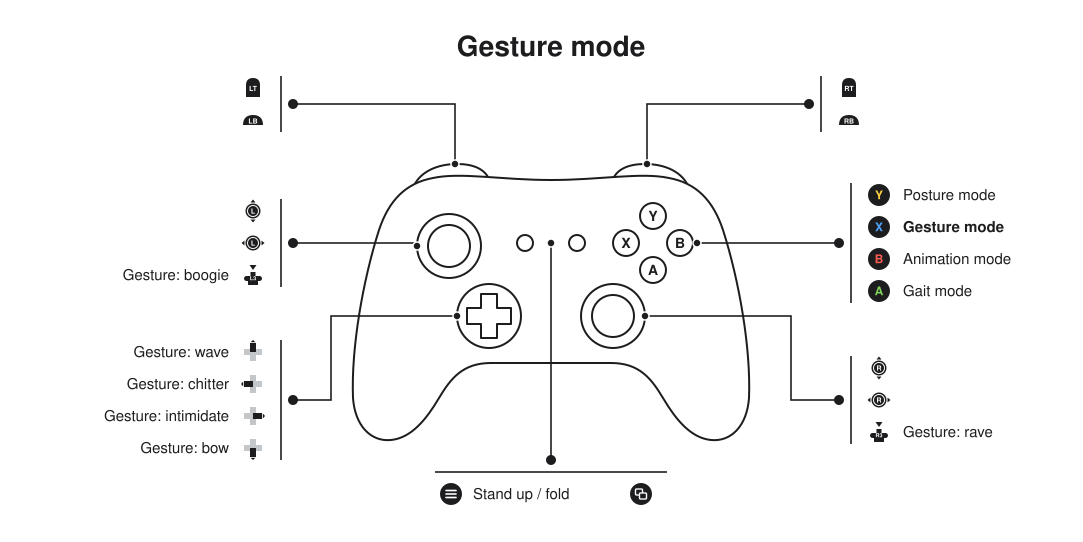
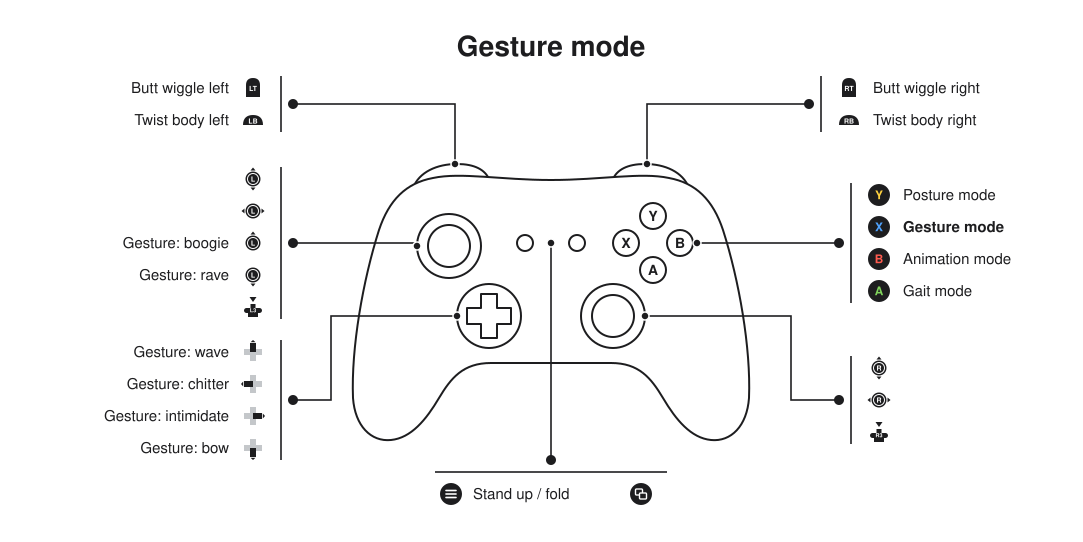
chore: adjust gesture gamepad controls

diff --git a/src/hexa_teleop/hexa_teleop/joy_mapping.py b/src/hexa_teleop/hexa_teleop/joy_mapping.py
@@ -76,6 +76,19 @@ DPAD_DIRECTIONS: dict[str, tuple[str, int]] = {
     "dpad_right": ("dpad_x", +1),
 }
 
+# Virtual stick direction keys, read like the D-pad. Gesture keys only: the
+# function sections bind the stick itself as an axis.
+STICK_DIRECTIONS: dict[str, tuple[str, int]] = {
+    "left_stick_up": ("left_stick_y", +1),
+    "left_stick_down": ("left_stick_y", -1),
+    "left_stick_left": ("left_stick_x", +1),
+    "left_stick_right": ("left_stick_x", -1),
+    "right_stick_up": ("right_stick_y", +1),
+    "right_stick_down": ("right_stick_y", -1),
+    "right_stick_left": ("right_stick_x", +1),
+    "right_stick_right": ("right_stick_x", -1),
+}
+
 
 @dataclass(frozen=True)
 class BaseConfig:
@@ -164,10 +177,10 @@ class JoyConfig:
     # through. Entry into ANIMATION snaps to index 0; subsequent
     # ``animation_prev`` / ``animation_next`` presses step the index.
     animation_list: tuple[str, ...]
-    # GESTURE-mode bindings: physical key -> gesture id from gestures.yaml.
-    # Not functions, so the section has no ``ModeConfig``; base bindings stay
-    # live in the mode.
+    # GESTURE-mode keys: physical key -> gesture id from gestures.yaml. Base
+    # bindings and ``gesture``'s function bindings stay live in the mode.
     gesture_bindings: Mapping[str, str] = field(default_factory=dict)
+    gesture: ModeConfig = field(default_factory=ModeConfig)
 
 
 @dataclass
@@ -376,9 +389,6 @@ def fit_drive_to_envelope(
     return drive_x * scale, drive_y * scale, drive_yaw * scale
 
 
-_NO_BINDINGS = ModeConfig()
-
-
 def _mode_cfg(cfg: JoyConfig, mode: str) -> ModeConfig | PostureConfig:
     if mode == GAIT:
         return cfg.gait
@@ -387,7 +397,7 @@ def _mode_cfg(cfg: JoyConfig, mode: str) -> ModeConfig | PostureConfig:
     if mode == ANIMATION:
         return cfg.animation
     if mode == GESTURE:
-        return _NO_BINDINGS
+        return cfg.gesture
     # Fallback to gait — should not happen since the loader validates
     # ``initial_mode`` and the mapping only ever assigns to known
     # constants.
@@ -427,18 +437,17 @@ def _read_axis_idx(axes: Sequence[float], idx: int) -> float:
     return float(axes[idx])
 
 
-def _dpad_pressed(
+def _direction_pressed(
     virtual_key: str,
     base: BaseConfig,
     axes: Sequence[float],
 ) -> bool:
-    """Return True if the D-pad direction ``virtual_key`` is held.
+    """Return True if the D-pad or stick direction ``virtual_key`` is held.
 
-    Reads the bound ``dpad_x`` / ``dpad_y`` axis from ``base.axes``,
-    applies its sign, and thresholds at ±0.5 so a bouncy axis can't
-    double-count.
+    Reads the bound axis from ``base.axes``, applies its sign, and
+    thresholds at ±0.5 so a bouncy axis can't double-count.
     """
-    axis_name, side = DPAD_DIRECTIONS[virtual_key]
+    axis_name, side = (DPAD_DIRECTIONS | STICK_DIRECTIONS)[virtual_key]
     if axis_name not in base.axis_index:
         return False
     sign = base.axis_sign.get(axis_name, 1.0)
@@ -482,8 +491,8 @@ def _key_pressed(
 ) -> bool:
     if key in base.button_index:
         return _read_button_idx(buttons, base.button_index[key])
-    if key in DPAD_DIRECTIONS:
-        return _dpad_pressed(key, base, axes)
+    if key in DPAD_DIRECTIONS or key in STICK_DIRECTIONS:
+        return _direction_pressed(key, base, axes)
     if key in base.axis_index:
         idx = base.axis_index[key]
         if idx < 0 or idx >= len(axes):
@@ -634,30 +643,42 @@ def validate_gesture_bindings(
     bindings: Mapping[str, str],
     base: BaseConfig,
     gesture_ids: Collection[str],
+    functions: Mapping[str, str] | None = None,
 ) -> None:
-    """Validate the ``gesture`` section: physical key -> gesture id.
+    """Validate ``gesture.gestures``: physical key -> gesture id.
 
-    Keys must be buttons, D-pad directions or the analog triggers, and none
-    may also carry a base binding, which stays live in GESTURE mode. Every
+    Keys must be buttons, D-pad or stick directions or the analog triggers,
+    and none may also carry a base binding or one of ``functions`` (the
+    section's own ``bindings``), which stay live in GESTURE mode. Every
     value must be a gesture id from ``gestures.yaml``. Raises ``ValueError``.
     """
-    pressable = set(base.button_index) | set(DPAD_DIRECTIONS) | (
-        {"l2", "r2"} & set(base.axis_index)
+    pressable = (
+        set(base.button_index)
+        | set(DPAD_DIRECTIONS)
+        | {
+            k for k, (axis, _) in STICK_DIRECTIONS.items()
+            if axis in base.axis_index
+        }
+        | ({"l2", "r2"} & set(base.axis_index))
     )
     for key, gesture in bindings.items():
         if key not in pressable:
             raise ValueError(
-                f"gesture.bindings: {key!r} is not a button, D-pad direction "
-                f"or trigger"
+                f"gesture.gestures: {key!r} is not a button, D-pad or stick "
+                f"direction, or trigger"
             )
-        if base.bindings.get(key):
-            raise ValueError(
-                f"gesture.bindings.{key}: key already bound in base to "
-                f"{base.bindings[key]!r}"
-            )
+        for section, bound in (
+            ("base", base.bindings),
+            ("gesture", functions or {}),
+        ):
+            if bound.get(key):
+                raise ValueError(
+                    f"gesture.gestures.{key}: key already bound in "
+                    f"{section} to {bound[key]!r}"
+                )
         if gesture not in gesture_ids:
             raise ValueError(
-                f"gesture.bindings.{key}: unknown gesture {gesture!r} "
+                f"gesture.gestures.{key}: unknown gesture {gesture!r} "
                 f"(known: {sorted(gesture_ids)})"
             )
 
@@ -1051,8 +1072,8 @@ def map_functions(
     # ``yaw_current``, which the gait/animation return below adds to the
     # pose it publishes, so the body can be held turned while walking.
     # Bindings still resolve against the active mode's config, so a mode
-    # that leaves them unbound has no yaw. Wiggle is live in GAIT and
-    # POSTURE the same way — its translation rides ``wiggle_amount`` and
+    # that leaves them unbound has no yaw. Wiggle is live in GAIT,
+    # POSTURE and GESTURE the same way — its translation rides ``wiggle_amount`` and
     # both returns add it — but not in ANIMATION, where the animation is
     # driving the body and an offset held underneath it fights it.
     wiggle_live = state.mode != ANIMATION

diff --git a/src/hexa_teleop/test/test_joy_mapping.py b/src/hexa_teleop/test/test_joy_mapping.py
@@ -2156,7 +2156,13 @@ def _gesture_cfg():
 
     return dataclasses.replace(
         _cfg(base_bindings={"x": "gesture_mode"}),
-        gesture_bindings={"dpad_up": "wave", "dpad_down": "bow"},
+        gesture_bindings={
+            "dpad_up": "wave",
+            "dpad_down": "bow",
+            "left_stick_up": "boogie",
+            "left_stick_down": "rave",
+        },
+        gesture=ModeConfig(bindings={"l1": "yaw_left", "l2": "wiggle_left"}),
     )
 
 
@@ -2181,6 +2187,32 @@ def test_gesture_fires_once_per_press_in_gesture_mode():
     # D-pad is not height in gesture mode, and the sticks drive nothing.
     assert first.pose_z == 0.0
     assert first.linear_x == 0.0
+
+
+def test_stick_direction_fires_gesture_in_gesture_mode():
+    cfg = _gesture_cfg()
+    state = JoyState(mode=GESTURE)
+    rest = map_joy(_axes(left_y=0.4), _buttons(), cfg, state, DT)
+    up = map_joy(_axes(left_y=1.0), _buttons(), cfg, state, DT)
+    map_joy(_axes(), _buttons(), cfg, state, DT)
+    down = map_joy(_axes(left_y=-1.0), _buttons(), cfg, state, DT)
+    assert rest.gesture is None
+    assert up.gesture == "boogie"
+    assert down.gesture == "rave"
+    assert up.linear_x == 0.0
+
+
+def test_yaw_and_wiggle_live_in_gesture_mode():
+    cfg = _gesture_cfg()
+    state = JoyState(mode=GESTURE)
+    for _ in range(400):
+        yaw = map_joy(_axes(), _buttons(yaw_left=True), cfg, state, DT)
+    assert math.isclose(yaw.pose_yaw, cfg.posture.yaw_max, rel_tol=1e-6)
+    state = JoyState(mode=GESTURE)
+    for _ in range(400):
+        wiggle = map_joy(_press_lt(), _buttons(), cfg, state, DT)
+    assert math.isclose(wiggle.pose_yaw, cfg.posture.yaw_max, rel_tol=1e-6)
+    assert wiggle.pose_y < 0.0
 
 
 def test_gesture_keys_inert_outside_gesture_mode():
@@ -2214,6 +2246,11 @@ def test_gesture_bindings_validated():
         validate_gesture_bindings({"a": "wave"}, base, ("wave",))
     with pytest.raises(ValueError, match="not a button"):
         validate_gesture_bindings({"left_stick_x": "wave"}, base, ("wave",))
+    validate_gesture_bindings({"left_stick_up": "wave"}, base, ("wave",))
+    with pytest.raises(ValueError, match="already bound in gesture"):
+        validate_gesture_bindings(
+            {"l1": "wave"}, base, ("wave",), {"l1": "yaw_left"}
+        )
 
 
 def test_shipped_gesture_bindings_are_valid():
@@ -2233,5 +2270,8 @@ def test_shipped_gesture_bindings_are_valid():
         bindings=raw["base"]["bindings"],
     )
     validate_gesture_bindings(
-        raw["gesture"]["bindings"], base, load_gesture_ids(gestures)
+        raw["gesture"]["gestures"],
+        base,
+        load_gesture_ids(gestures),
+        raw["gesture"]["bindings"],
     )

diff --git a/scripts/generate_controller.py b/scripts/generate_controller.py
@@ -68,7 +68,8 @@ GROUPS = [
     dict(anchor="left_shoulder", side="left", bx=470, cy=72, mx=None,
          rows=[("l2", "lt"), ("l1", "lb")]),
     dict(anchor="left_stick", side="left", bx=470, cy=211, mx=None,
-         rows=[("left_stick_y", "ls_y"), ("left_stick_x", "ls_x"), ("l3", "l3")]),
+         rows=[("left_stick_y", "ls_y"), ("left_stick_x", "ls_x"),
+               ("left_stick_up", "ls_up"), ("left_stick_down", "ls_down"), ("l3", "l3")]),
     dict(anchor="dpad", side="left", bx=470, cy=368, mx=520,
          rows=[("dpad_up", "dpad_up"), ("dpad_left", "dpad_left"),
                ("dpad_right", "dpad_right"), ("dpad_down", "dpad_down")]),
@@ -118,11 +119,10 @@ def body_anchors(path: Path) -> dict[str, tuple[float, float]]:
 def bindings_for(cfg: dict, mode: str) -> dict[str, str]:
     """Key -> label for one mode: base bindings under the mode's section."""
     keys = dict(cfg["base"]["bindings"])
-    section = cfg.get(mode, {}).get("bindings", {}) or {}
+    keys.update(cfg.get(mode, {}).get("bindings", {}) or {})
     if mode == "gesture":
-        keys.update({k: f"gesture:{v}" for k, v in section.items()})
-    else:
-        keys.update(section)
+        gestures = cfg["gesture"].get("gestures", {}) or {}
+        keys.update({k: f"gesture:{v}" for k, v in gestures.items()})
     labels = {}
     for key, fn in keys.items():
         if not fn:
@@ -261,8 +261,9 @@ def main() -> None:
 
     cfg = yaml.safe_load(args.config.read_text())
     known = {k for g in GROUPS for k, _ in g["rows"]}
-    for section in ("base", *MODES):
-        for key in (cfg.get(section, {}).get("bindings") or {}):
+    for section, table in [("base", "bindings"), *((m, "bindings") for m in MODES),
+                           ("gesture", "gestures")]:
+        for key in (cfg.get(section, {}).get(table) or {}):
             if key not in known:
                 sys.exit(f"generate_controller: [{section}] key '{key}' has no place on the diagram")
 

diff --git a/src/hexa_teleop/hexa_teleop/teleop_joy.py b/src/hexa_teleop/hexa_teleop/teleop_joy.py
@@ -163,16 +163,21 @@ def _load_config(
     animation_bindings = _parse_mode_bindings(
         "animation", raw["animation"], base
     )
+    gesture_functions = _parse_mode_bindings("gesture", raw["gesture"], base)
     cross_section_function_check({
         "gait": gait_bindings,
         "posture": posture_bindings,
         "animation": animation_bindings,
+        "gesture": gesture_functions,
     })
     gesture_bindings = {
-        str(k): str(v) for k, v in raw["gesture"]["bindings"].items()
+        str(k): str(v) for k, v in raw["gesture"]["gestures"].items()
     }
     validate_gesture_bindings(
-        gesture_bindings, base, load_gesture_ids(gestures_yaml)
+        gesture_bindings,
+        base,
+        load_gesture_ids(gestures_yaml),
+        gesture_functions,
     )
 
     height = posture_raw["height"]
@@ -201,6 +206,7 @@ def _load_config(
         stance_unit=unit_stance_xy(geometry_yaml, gait_yaml),
         animation_list=animation_list,
         gesture_bindings=gesture_bindings,
+        gesture=ModeConfig(bindings=gesture_functions),
     )
 
     initial_mode = str(raw.get("initial_mode", POSTURE))

diff --git a/pi-pico-firmware/src/bt_teleop.cpp b/pi-pico-firmware/src/bt_teleop.cpp
@@ -101,15 +101,15 @@ void adapt_gamepad(const uni_gamepad_t& gp, int16_t axes[kNumAxes], uint32_t& bu
     axes[kL2] = scale_trigger(gp.brake);
     axes[kR2] = scale_trigger(gp.throttle);
 
-    // D-pad -> hat axes, encoded so (raw) * (axis_sign = -1) crosses the ±0.5
-    // thresholds in joy_mapping.DPAD_DIRECTIONS the right way:
+    // D-pad -> hat axes in the Linux js layout, which teleop_joy.yaml's
+    // axis_signs (dpad_x +1, dpad_y -1) are tuned for:
     //   up   -> dpad_y = -max    down  -> dpad_y = +max
-    //   left -> dpad_x = +max    right -> dpad_x = -max
+    //   left -> dpad_x = -max    right -> dpad_x = +max
     int16_t dx = 0, dy = 0;
     if (gp.dpad & DPAD_UP) dy = kAxisMin;
     if (gp.dpad & DPAD_DOWN) dy = kAxisMax;
-    if (gp.dpad & DPAD_LEFT) dx = kAxisMax;
-    if (gp.dpad & DPAD_RIGHT) dx = kAxisMin;
+    if (gp.dpad & DPAD_LEFT) dx = kAxisMin;
+    if (gp.dpad & DPAD_RIGHT) dx = kAxisMax;
     axes[kDpadX] = dx;
     axes[kDpadY] = dy;
 

diff --git a/src/hexa_teleop/README.md b/src/hexa_teleop/README.md
@@ -101,9 +101,9 @@ gait/animation branch publishes, so the body can be held turned or raised while
 the robot walks.
 
 - **The binding table decides where they are reachable.** `l1`/`r1` are bound in
-  the `gait` and `posture` sections and empty in `animation`, so a gamepad has
-  yaw in the first two and none in the third. The webapp offers the same two.
-- **Wiggle is live in gait and posture.** `l2`/`r2` translate the body about a
+  the `gait`, `posture` and `gesture` sections and empty in `animation`, so a
+  gamepad has yaw in all modes but animation. The webapp offers the same two.
+- **Wiggle is live in gait, posture and gesture.** `l2`/`r2` translate the body about a
   pivot ahead of centre, and the wiggle and the yaw it pushes ride along on the
   walk as height and yaw do; the gait branch adds the translation to the recorded
   x-y baseline, its only x-y offset, since the sticks are driving there.
@@ -224,15 +224,20 @@ Both duty factor 3/4, one foot airborne at a time:
 ## Gesture mode (**x**)
 
 **x** enters gesture mode; **a**, **b** and **y** leave it as from any mode.
-The `gesture:` section binds a key to a gesture id from `hexa_description`'s
-`gestures.yaml`, validated at load. Defaults:
+The `gesture:` section has two tables. `bindings` maps keys to functions, as in
+the other sections: `l1`/`r1` yaw and `l2`/`r2` wiggle, which ride on the
+gesture's body track. `gestures` maps a key to a gesture id from
+`hexa_description`'s `gestures.yaml`, validated at load. Defaults:
 
 - **D-pad** — up `wave`, down `bow`, left `chitter`, right `intimidate`.
-- **l3** / **r3** (stick presses) — `boogie` / `rave`.
+- **Left stick** up / down — `boogie` / `rave`.
 
+- **Stick directions** (`left_stick_up`, `right_stick_left`, …) are virtual
+  keys, pressed past half deflection like the D-pad. Gesture keys only.
 - **Gesture keys are live in gesture mode only.** The other sections' keys
   and the sticks are inert there; base bindings (mode buttons, `start`,
-  `select`) stay live, so a gesture key may not carry a base binding.
+  `select`) and `gesture.bindings` stay live, so a gesture key may carry
+  neither.
 - **One press, one `/cmd_gesture`**, on the rising edge. A key held on entry
   fires nothing. Ungated by ownership, like the web Gesture view.
 - **Pre-gated on `stand`**; a press elsewhere is dropped with a log line. The
